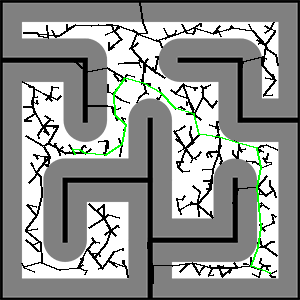
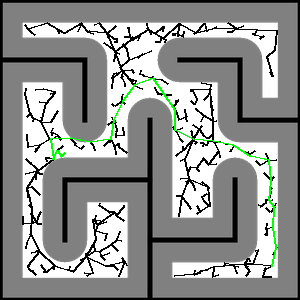
v2

diff --git a/finalproject.py b/finalproject.py
@@ -33,7 +33,7 @@ class Run:
         self.vc_x = 0
         self.vc_y = 0
         self.vc_theta = 0
-        self.pf = particle_filter.ParticleFilter(self.map, 1500, 0.02, 0.15, 0.2)
+        self.pf = particle_filter.ParticleFilter(self.map, 1500, 0.06, 0.15, 0.2)
         self.step_dist = 0.5
 
         # RRT
@@ -96,6 +96,7 @@ class Run:
     def visualize(self):
         flag = True
         x, y, theta = self.pf.get_estimate()
+        print("Estimated", x, y)
         self.virtual_create.set_pose((x, y, 0.1), theta)
         data = []
         for particle in self.pf._particles:
@@ -112,20 +113,20 @@ class Run:
         return flag
 
     def lookAround(self):
+        converged = False
         angle = -90
         while angle <= 90:
             self.servo.go_to(angle)
             self.time.sleep(2.0)
             distance = self.sonar.get_distance()
-            print(distance)
+            # print(distance)
             self.pf.measure(distance, math.radians(angle))
             angle += 90
-            if self.visualize():
-                self.servo.go_to(0)
-                self.time.sleep(2)
-                return True
+            converged |= self.visualize()
         self.servo.go_to(0)
         self.time.sleep(2)
+        if converged:
+            return True
         return False
 
     def run(self):
@@ -153,7 +154,7 @@ class Run:
 
         while True:
             distance = self.sonar.get_distance()
-            print(distance)
+            # print(distance)
             self.pf.measure(distance, 0)
             if self.visualize():
                 break
@@ -207,79 +208,116 @@ class Run:
         # execute the path (essentially waypoint following from lab 6)
 
         # count = 0
-        # while math.sqrt(math.pow(self.odometry.x - 74.095, 2) + math.pow(self.odometry.y - 160, 2)) > 0.15:
-        for i in range(3, len(path)):
-            old_x = self.odometry.x
-            old_y = self.odometry.y
-            old_theta = self.odometry.theta
-            p = path[i]
-            print(p.state)
-            goal_x = p.state[0] / 100.0
-            goal_y = 3 - p.state[1] / 100.0
-            print(goal_x, goal_y)
-            while True:
-                state = self.create.update()
-                if state is not None:
-                    self.odometry.update(state.leftEncoderCounts, state.rightEncoderCounts)
-                    goal_theta = math.atan2(goal_y - self.odometry.y, goal_x - self.odometry.x)
-                    theta = math.atan2(math.sin(self.odometry.theta), math.cos(self.odometry.theta))
-                    output_theta = self.pidTheta.update(self.odometry.theta, goal_theta, self.time.time())
-                    print("Odometry:", self.odometry.x, self.odometry.y, self.odometry.theta)
-                    print("Goal:", goal_x, goal_y, goal_theta)
-                    self.create.drive_direct(int(base_speed+output_theta), int(base_speed-output_theta))
-                    # print("[{},{},{}]".format(self.odometry.x, self.odometry.y, math.degrees(self.odometry.theta)))
+        while math.sqrt(math.pow(self.odometry.x - 0.74095, 2) + math.pow(self.odometry.y - 1.6, 2)) > 0.05:
+            # print("Outer loop", math.sqrt(math.pow(self.odometry.x - 0.74095, 2) + math.pow(self.odometry.y - 1.6, 2)))
+            for i in range(1, len(path)):
+                # print("Inner loop", math.sqrt(math.pow(self.odometry.x - 0.74095, 2) + math.pow(self.odometry.y - 1.6, 2)))
+                old_x = self.odometry.x
+                old_y = self.odometry.y
+                old_theta = self.odometry.theta
+                if math.sqrt(math.pow(self.odometry.x - 0.74095, 2) + math.pow(self.odometry.y - 1.6, 2)) <= 0.05:
+                    break
+                elif math.sqrt(math.pow(self.odometry.x - 0.74095, 2) + math.pow(self.odometry.y - 1.6, 2)) <= 0.3:
 
-                    distance = math.sqrt(math.pow(goal_x - self.odometry.x, 2) + math.pow(goal_y - self.odometry.y, 2))
-                    if i is not len(path)-1:
-                        if distance <= 0.2:
-                            break
-                    else:
-                        if distance <= 0.01:
-                            break
-            self.pf.move_by(self.odometry.x - old_x, self.odometry.y - old_y, self.odometry.theta - old_theta)
-            self.visualize()
+                    goal_x = 0.74095
+                    goal_y = 1.6
+                    goal_theta = math.atan2(goal_y - self.odometry.y, goal_x - self.odometry.x)
+                    self.go_to_angle(goal_theta)
+                    while True:
+                        state = self.create.update()
+                        if state is not None:
+                            self.odometry.update(state.leftEncoderCounts, state.rightEncoderCounts)
+                            goal_theta = math.atan2(goal_y - self.odometry.y, goal_x - self.odometry.x)
+                            output_theta = self.pidTheta.update(self.odometry.theta, goal_theta, self.time.time())
+                            self.create.drive_direct(int(base_speed + output_theta), int(base_speed - output_theta))
+                            distance = math.sqrt(
+                                math.pow(goal_x - self.odometry.x, 2) + math.pow(goal_y - self.odometry.y, 2))
+                            if distance <= 0.05:
+                                break
+                    self.pf.move_by(self.odometry.x - old_x, self.odometry.y - old_y, self.odometry.theta - old_theta)
+                    self.visualize()
+                    break
+                # if i == len(path)-2:
+                #     i += 1
+
+                p = path[i]
+                # print(p.state)
+                goal_x = p.state[0] / 100.0
+                goal_y = 3 - p.state[1] / 100.0
+                # goal_theta = math.atan2(goal_y - self.odometry.y, goal_x - self.odometry.x)
+                # self.go_to_angle(goal_theta)
+                print("Goal", goal_x, goal_y)
+                while True:
+                    state = self.create.update()
+                    if state is not None:
+                        self.odometry.update(state.leftEncoderCounts, state.rightEncoderCounts)
+                        goal_theta = math.atan2(goal_y - self.odometry.y, goal_x - self.odometry.x)
+                        theta = math.atan2(math.sin(self.odometry.theta), math.cos(self.odometry.theta))
+                        output_theta = self.pidTheta.update(self.odometry.theta, goal_theta, self.time.time())
+                        # print("Odometry:", self.odometry.x, self.odometry.y, self.odometry.theta)
+                        # print("Goal:", goal_x, goal_y, goal_theta)
+                        self.create.drive_direct(int(base_speed+output_theta), int(base_speed-output_theta))
+                        # print("[{},{},{}]".format(self.odometry.x, self.odometry.y, math.degrees(self.odometry.theta)))
+
+                        distance = math.sqrt(math.pow(goal_x - self.odometry.x, 2) + math.pow(goal_y - self.odometry.y, 2))
+                        if i is not len(path)-1:
+                            if distance <= 0.2:
+                                break
+                        else:
+                            if distance <= 0.01:
+                                break
+                self.pf.move_by(self.odometry.x - old_x, self.odometry.y - old_y, self.odometry.theta - old_theta)
+                self.visualize()
+
+
 
                 # check rebuild the tree
-                # if i % 10 == 0: # or (i == len(path)-1 and math.sqrt(math.pow(self.odometry.x - 74.095, 2) + math.pow(self.odometry.y - 160, 2)) > 20):
-                #     self.create.drive_direct(0, 0)
-                #     if not self.lookAround():
-                #         while True:
-                #             distance = self.sonar.get_distance()
-                #             print(distance)
-                #             self.pf.measure(distance, 0)
-                #             if self.visualize():
-                #                 break
-                #             if distance > self.step_dist + 0.2:
-                #                 self.forward()
-                #                 if self.lookAround():
-                #                     break
-                #             else:
-                #                 self.go_to_angle(self.odometry.theta + math.pi / 2)
-                #                 if self.visualize():
-                #                     break
-                #     self.odometry.x = self.vc_x
-                #     self.odometry.y = self.vc_y
-                #     self.odometry.theta = self.vc_theta
-                #     self.vc_x *= 100
-                #     self.vc_y = 300 - self.vc_y * 100
-                #     print(self.vc_x, self.vc_y)
-                #     self.rrt.build((self.vc_x, self.vc_y), 1500, 20)
-                #
-                #     print("New map built")
-                #
-                #     x_goal = self.rrt.nearest_neighbor((74.095, 160))
-                #
-                #     path = self.rrt.shortest_path(x_goal)
-                #     # for v in self.rrt.T:
-                #     #     # print(v.state)
-                #     #     for u in v.neighbors:
-                #     #         self.map2.draw_line((v.state[0], v.state[1]), (u.state[0], u.state[1]), (0, 0, 0))
-                #     # for idx in range(0, len(path) - 1):
-                #     #     self.map2.draw_line((path[idx].state[0], path[idx].state[1]),
-                #     #                         (path[idx + 1].state[0], path[idx + 1].state[1]), (0, 255, 0))
-                #     #
-                #     # self.map2.save("finalproject_img.png")
-                #     break
+                if i % 10 == 0:
+                    self.create.drive_direct(0, 0)
+                    if not self.lookAround():
+                        while True:
+                            distance = self.sonar.get_distance()
+                            print(distance)
+                            self.pf.measure(distance, 0)
+                            if self.visualize():
+                                break
+                            if distance > self.step_dist + 0.2:
+                                self.forward()
+                                if self.lookAround():
+                                    break
+                            else:
+                                self.go_to_angle(self.odometry.theta + math.pi / 2)
+                                if self.visualize():
+                                    break
+                    if math.sqrt(math.pow(self.odometry.x - self.vc_x, 2) + math.pow(self.odometry.y - self.vc_y, 2)) > 0.1:
+                        print("Drifted too much!")
+                        self.odometry.x = self.vc_x
+                        self.odometry.y = self.vc_y
+                        self.odometry.theta = self.vc_theta
+                        self.vc_x *= 100
+                        self.vc_y = 300 - self.vc_y * 100
+                        print(self.vc_x, self.vc_y)
+                        self.map2 = lab11_map.Map("finalproject_map2_config.png")
+                        self.rrt = rrt.RRT(self.map2)
+                        self.rrt.build((self.vc_x, self.vc_y), 1500, 20)
+
+                        print("New map built")
+
+                        x_goal = self.rrt.nearest_neighbor((74.095, 160))
+
+                        path = self.rrt.shortest_path(x_goal)
+                        for v in self.rrt.T:
+                            # print(v.state)
+                            for u in v.neighbors:
+                                self.map2.draw_line((v.state[0], v.state[1]), (u.state[0], u.state[1]), (0, 0, 0))
+                        for idx in range(0, len(path) - 1):
+                            self.map2.draw_line((path[idx].state[0], path[idx].state[1]),
+                                                (path[idx + 1].state[0], path[idx + 1].state[1]), (0, 255, 0))
+
+                        self.map2.save("finalproject_img.png")
+                        break
+
+
         self.create.drive_direct(0, 0)
 
         # go to pick up glass

diff --git a/particle_filter.py b/particle_filter.py
@@ -46,9 +46,9 @@ class ParticleFilter:
         for particle in self._particles:
             # compute what the distance should be, if particle position is accurate
             distance = self._map.closest_distance([particle.x, particle.y], particle.theta + servo_angle_in_rad)
-            print(particle.theta + servo_angle_in_rad)
-            print([particle.x, particle.y])
-            print(distance)
+            # print(particle.theta + servo_angle_in_rad)
+            # print([particle.x, particle.y])
+            # print(distance)
             # compute the probability P[measured z | robot @ x]
             p = scipy.stats.norm(distance, self._measurement_variance).pdf(z)
             if p == 0:

diff --git a/lab11_map.py b/lab11_map.py
@@ -10,7 +10,7 @@ class Map:
         self.draw = ImageDraw.Draw(self.img)
 
     def has_obstacle(self, x, y):
-        return np.array(self.img.getpixel((x, y))).sum() > 510
+        return np.array(self.img.getpixel((x, y))).sum() > 0
 
     def draw_line(self, pos1, pos2, color, width=2):
         self.draw.line((pos1[0], pos1[1], pos2[0], pos2[1]), fill=(color[0],color[1],color[2],255), width=width)
